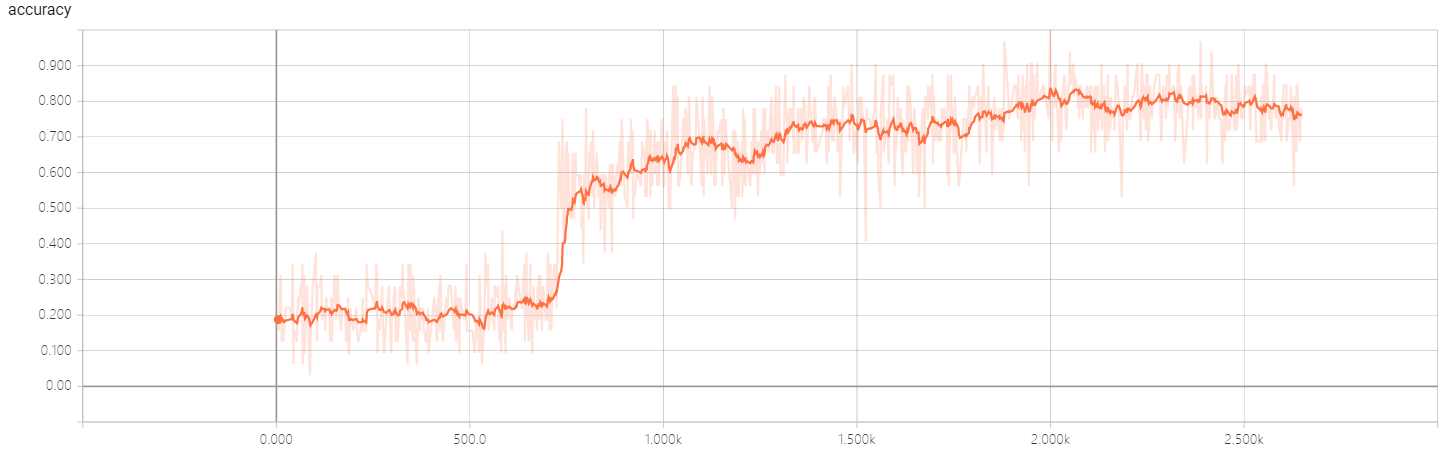
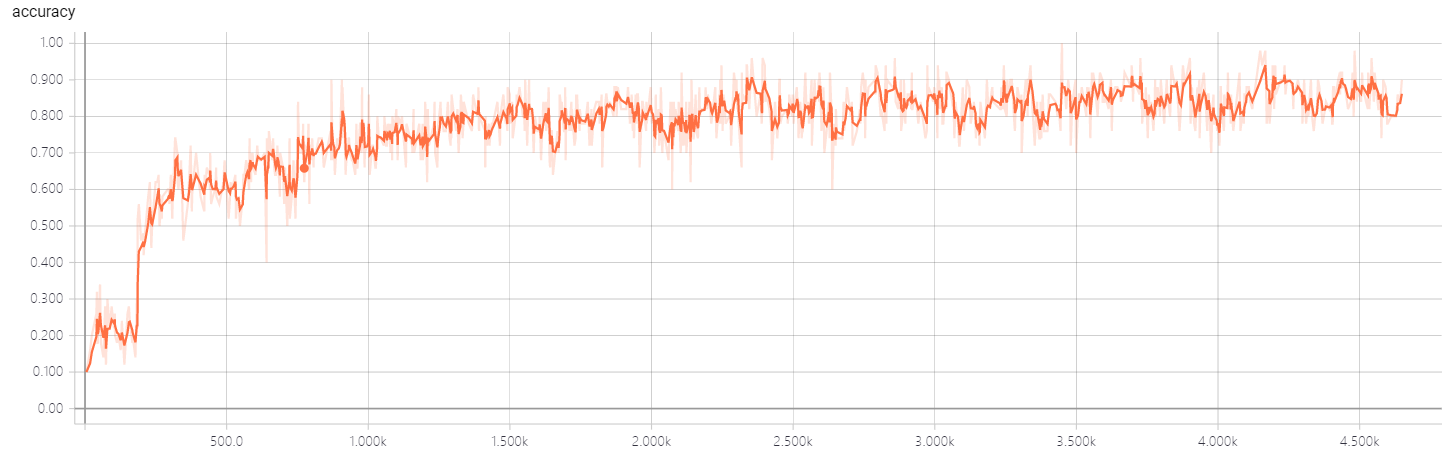
loss modification & result report

diff --git a/train.py b/train.py
@@ -59,8 +59,9 @@ def main(args):
                 output = net.build_arch(batch_x, coord_add, is_train=True,
                                         num_classes=num_classes)
                 # loss = net.cross_ent_loss(output, batch_labels)
-                loss = net.spread_loss(output, batch_labels, m_op)
-                tf.summary.scalar('spread_loss', loss)
+                loss, loss_out = net.spread_loss(output, batch_labels, m_op)
+                tf.summary.scalar('spread_loss', loss_out)
+                tf.summary.scalar('all_loss', loss)
 
             """Compute gradient."""
             grad = opt.compute_gradients(loss)
@@ -112,7 +113,7 @@ def main(args):
         m_min = 0.2
         m_max = 0.9
         m = m_min
-        for step in range(cfg.epoch * num_batches_per_epoch):
+        for step in range(cfg.epoch * num_batches_per_epoch+1):
             tic = time.time()
             """"TF queue would pop batch until no file"""
             try:
@@ -134,7 +135,7 @@ def main(args):
                 """Epoch wise linear annealling."""
                 if (step % num_batches_per_epoch) == 0:
                     if step > 0:
-                        m += (m_max - m_min) / (cfg.epoch * 0.6)
+                        m += (m_max - m_min) / (cfg.epoch * cfg.m_schedule)
                         if m > m_max:
                             m = m_max
 

diff --git a/config.py b/config.py
@@ -12,6 +12,7 @@ flags.DEFINE_float('ac_lambda_step', 0.01,
 flags.DEFINE_integer('batch_size', 50, 'batch size')
 flags.DEFINE_integer('epoch', 50, 'epoch')
 flags.DEFINE_integer('iter_routing', 1, 'number of iterations')
+flags.DEFINE_float('m_schedule', 0.2, 'the m will get to 0.9 at current epoch')
 flags.DEFINE_float('epsilon', 1e-9, 'epsilon')
 
 ################################

diff --git a/capsnet_em.py b/capsnet_em.py
@@ -39,9 +39,9 @@ def spread_loss(output, y, m):
     loss = tf.reduce_mean(loss)
 
     regularization = tf.get_collection(tf.GraphKeys.REGULARIZATION_LOSSES)
-    loss = tf.add_n([loss] + regularization)
+    loss_all = tf.add_n([loss] + regularization)
 
-    return loss
+    return loss_all, loss
 
 # input should be a tensor with size as [batch_size, height, width, channels]
 

diff --git a/README.md b/README.md
@@ -12,12 +12,15 @@ A Tensorflow implementation of CapsNet based on paper [Matrix Capsules with EM R
 > 4. With configuration A=32, B=4, D=4, D=4, batch_size=128, each iteration of training takes around 0.6s on a Tesla P40 GPU.
 
 > **Current Results on smallNORB:**
-- Configuration: A=32, B=8, C=16, D=16, batch_size=32, iteration number of EM routing: 2, with Coordinate Addition, spread loss
-- Training loss. Drastic variations of training loss is also observed. The training is manually interrupted due to the variation.
+- Configuration: A=32, B=8, C=16, D=16, batch_size=50, iteration number of EM routing: 2, with Coordinate Addition, spread loss, batch normalization
+- Training loss. Variation of loss is suppressed by batch normalization. However there still exists a gap between our best results and the reported results in the original paper.
 ![spread loss](imgs/spread_loss_norb.png)
 
-- Test accuracy(current best result is 79.8%)
+- Test accuracy(current best result is 87.66%)
 ![test_acc](imgs/test_accuracy_norb.png)
+
+> **Ablation Study on smallNORB:**
+- Configuration: A=32, B=8, C=16, D=16, batch_size=32, iteration number of EM routing: 2, with Coordinate Addition, spread loss, test accuracy is 79.8%.
 
 > **Current Results on MNIST:**
 - Configuration: A=32, B=8, C=16, D=16, batch_size=32, iteration number of EM routing: 2, with Coordinate Addition, spread loss
